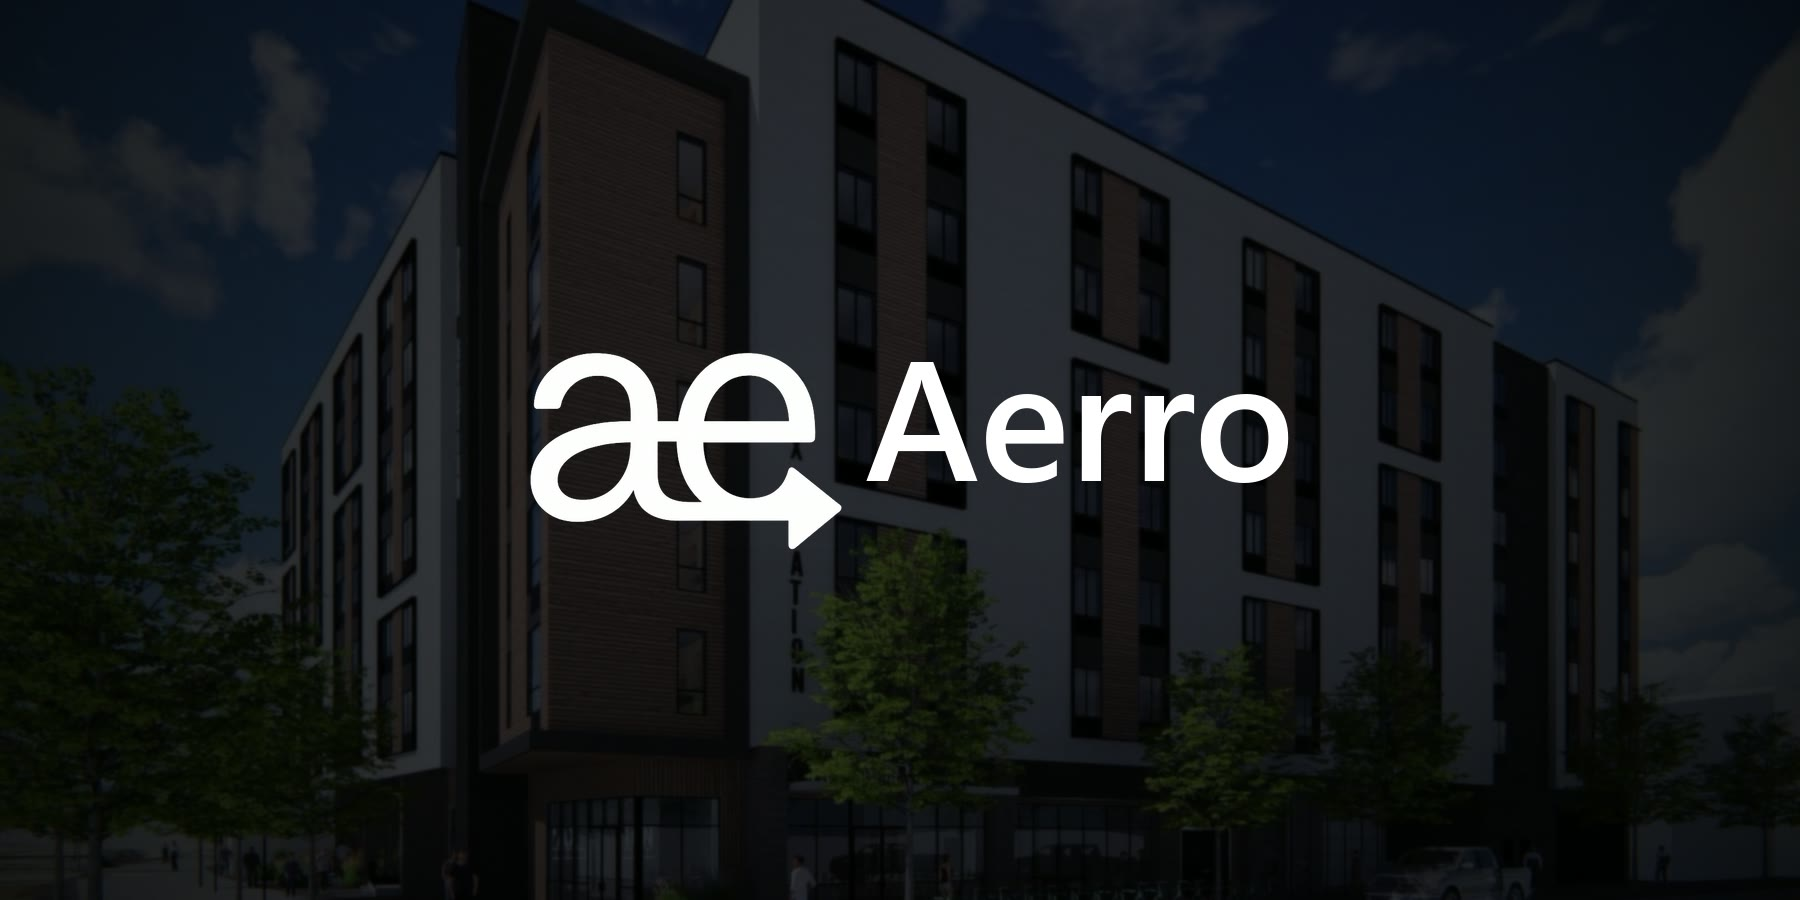
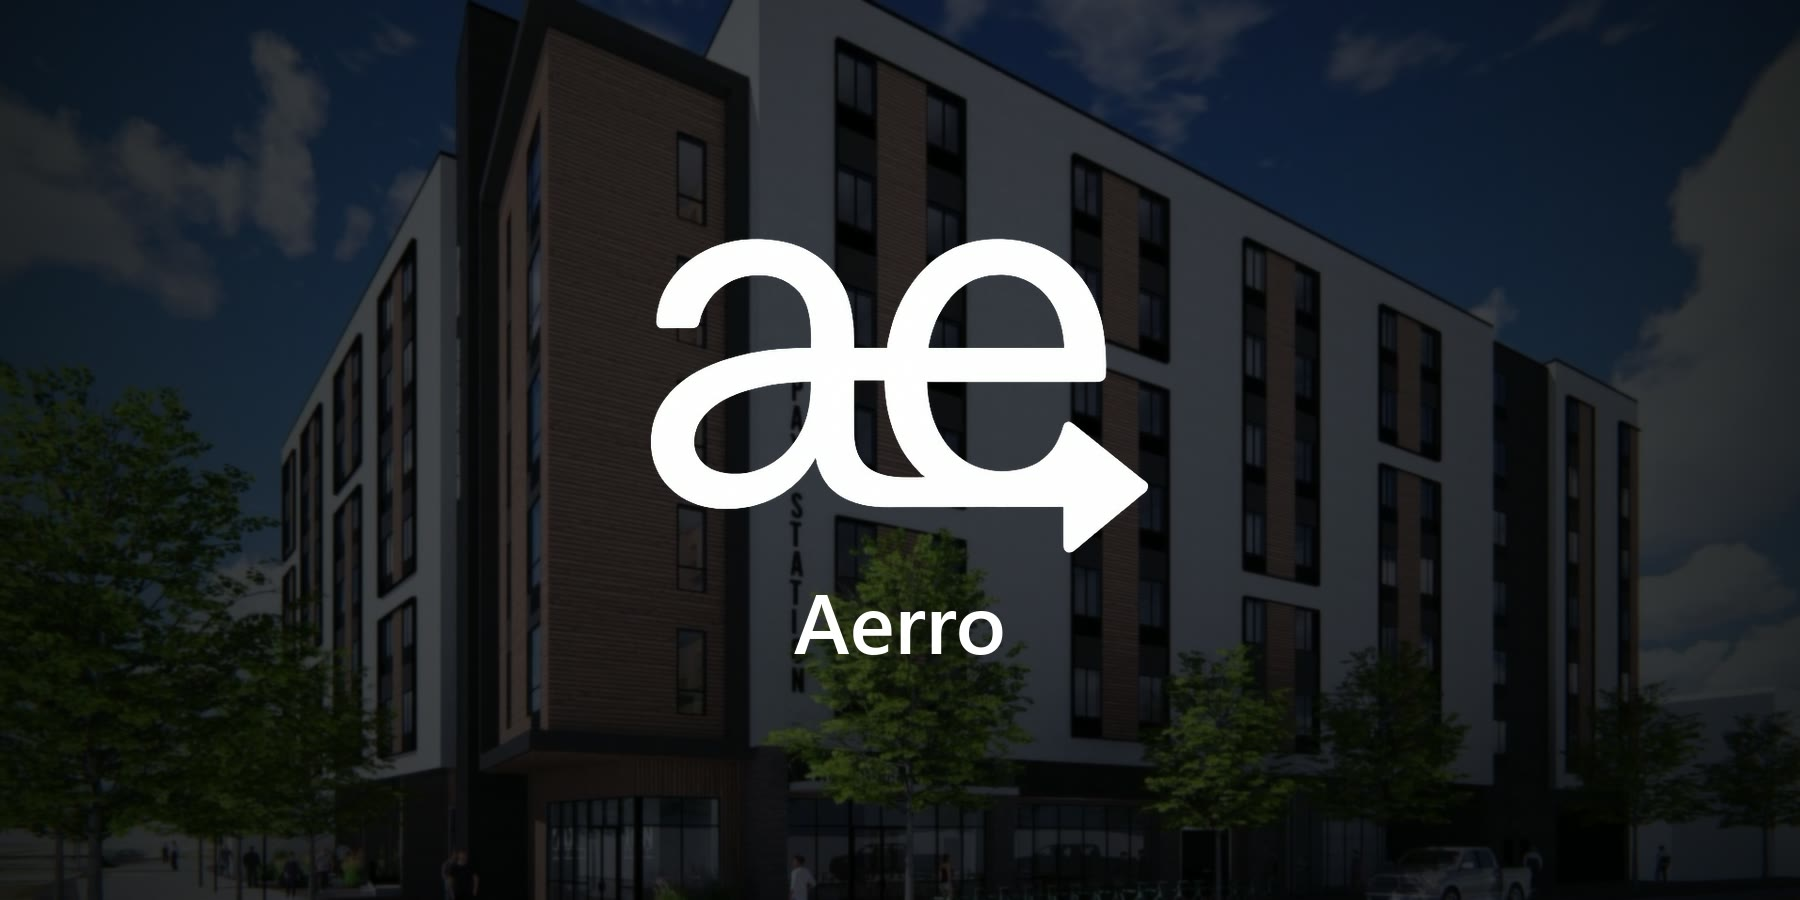
Tech story image: larger centered Aerro mark, wordmark below
The mark is centered and larger with a smaller "Aerro" underneath, and
the background rendering is a little brighter.

Changed region(s): [[0.28, 0.2489, 0.7156, 0.6222], [0.4356, 0.6533, 0.56, 0.7467]]

diff --git a/field-journal.html b/field-journal.html
@@ -46,7 +46,7 @@
 <section class="s fa-list-s" data-tone="light"><div class="wrap">
   <div class="fa-head"><h2 class="big">All stories</h2><div class="fj-chips" role="group" aria-label="Filter stories"><button type="button" data-f="" aria-pressed="true">All</button><button type="button" data-f="Housing" aria-pressed="false">Housing</button><button type="button" data-f="Technology" aria-pressed="false">Technology</button><button type="button" data-f="Projects" aria-pressed="false">Projects</button><button type="button" data-f="Preservation" aria-pressed="false">Preservation</button><button type="button" data-f="Community" aria-pressed="false">Community</button></div></div>
   <ul class="fa-list" data-list><li data-cat="Housing"><a class="fr" href="field-journal/building-from-the-middle-out-the-understory-collection.html"><span class="fr-im"><img src="assets/img/understory-street-2.jpg" alt="" loading="lazy"></span>
-  <span class="fr-tx"><span class="jm"><b>Housing</b><span>Nov 4, 2026</span><span>3 min read</span></span><span class="fr-t">Building From the Middle Out: The Understory Collection and the Missing Middle</span><span class="fr-x">What if the housing crisis isn&#x27;t only about building more, but about building differently? Over the past year our team has been reading Missing…</span></span><span class="fr-a" aria-hidden="true">→</span></a></li><li data-cat="Technology"><a class="fr" href="field-journal/the-tech-that-keeps-us-running.html"><span class="fr-im"><img src="assets/img/tech-aerro-pax-station.jpg" alt="" loading="lazy"></span>
+  <span class="fr-tx"><span class="jm"><b>Housing</b><span>Nov 4, 2026</span><span>3 min read</span></span><span class="fr-t">Building From the Middle Out: The Understory Collection and the Missing Middle</span><span class="fr-x">What if the housing crisis isn&#x27;t only about building more, but about building differently? Over the past year our team has been reading Missing…</span></span><span class="fr-a" aria-hidden="true">→</span></a></li><li data-cat="Technology"><a class="fr" href="field-journal/the-tech-that-keeps-us-running.html"><span class="fr-im"><img src="assets/img/tech-aerro-pax-station.jpg?v=2" alt="" loading="lazy"></span>
   <span class="fr-tx"><span class="jm"><b>Technology</b><span>Nov 4, 2026</span><span>4 min read</span></span><span class="fr-t">The Tech That Keeps Us Running: Aerro, Revit, Scanning and More</span><span class="fr-x">There&#x27;s a moment in every project when the clock feels like it&#x27;s working against you. A deadline shifts, a detail needs another look, or a client…</span></span><span class="fr-a" aria-hidden="true">→</span></a></li><li data-cat="Community"><a class="fr" href="field-journal/knighton-before-christmas-a-gingerbread-building-charity-event-supporting-homeaid-utah.html"><span class="fr-im"><img src="assets/img/17660150_Knighton_Before_Christmas-1.jpg" alt="" loading="lazy"></span>
   <span class="fr-tx"><span class="jm"><b>Community</b><span>Dec 17, 2025</span><span>2 min read</span></span><span class="fr-t">Knighton Before Christmas: A Gingerbread-Building Charity Event Supporting HomeAid Utah</span><span class="fr-x">Knighton Architecture, alongside our partners and community, proudly hosted The Knighton Before Christmas, a festive gingerbread-building charity…</span></span><span class="fr-a" aria-hidden="true">→</span></a></li><li data-cat="Projects"><a class="fr" href="field-journal/7gmi0lwdh7fl4fcm2fqzj8sizo6jmn.html"><span class="fr-im"><img src="assets/img/f8b0e9a7_Valley_View_Parade_Home-0367.jpg" alt="" loading="lazy"></span>
   <span class="fr-tx"><span class="jm"><b>Projects</b><span>Aug 21, 2025</span><span>2 min read</span></span><span class="fr-t">Valley View: A Modern Showcase in the Utah Valley Parade of Homes</span><span class="fr-x">Knighton Architecture, in collaboration with 10X Construction, is proud to present Valley View, a residence featured in the Utah Valley Parade of…</span></span><span class="fr-a" aria-hidden="true">→</span></a></li><li data-cat="Preservation"><a class="fr" href="field-journal/restoring-the-fifth-ward-chapel-preserving-a-salt-lake-city-landmark.html"><span class="fr-im"><img src="assets/img/17557960__url_http_3a_2f_2fewscripps-brightspot.s3.amazonaws.com_2f88_2f67_2f6c36e94040128a9391e8881d62cf_2f5th-ward-building.jpg" alt="" loading="lazy"></span>

diff --git a/field-journal/the-tech-that-keeps-us-running.html b/field-journal/the-tech-that-keeps-us-running.html
@@ -39,7 +39,7 @@
   <a class="jp-back" href="../field-journal.html">← Field Journal</a>
   <span class="jm"><b>Technology</b><span>Nov 4, 2026</span><span>4 min read</span></span><h1 class="jp-t">The Tech That Keeps Us Running: Aerro, Revit, Scanning and More</h1><p class="jp-lede">There&#x27;s a moment in every project when the clock feels like it&#x27;s working against you. A deadline shifts, a detail needs another look, or a client asks about site photos from three months ago. For a small firm like ours, those moments used to eat whole afternoons. Not anymore. Here&#x27;s a closer look at the tools we rely on every day, and why they matter to the people we design for.</p>
 </div></section>
-<figure class="wrap jp-hero" data-dark><img src="../assets/img/tech-aerro-pax-station.jpg" alt="The Aerro logo over a darkened rendering of Pax Station Apartments"></figure>
+<figure class="wrap jp-hero" data-dark><img src="../assets/img/tech-aerro-pax-station.jpg?v=2" alt="The Aerro logo over a darkened rendering of Pax Station Apartments"></figure>
 <section class="jp-body-s" data-tone="light"><div class="wrap jp-grid">
   <aside class="jp-side"><dl><dt>Category</dt><dd>Technology</dd><dt>Published</dt><dd>Nov 4, 2026</dd><dt>Reading time</dt><dd>4 minutes</dd></dl><a class="arrow" href="https://www.aerro.app/" target="_blank" rel="noopener">Visit Aerro</a></aside>
   <div class="jp-body"><p>Technology in architecture isn't new. CAD changed the profession decades ago. But the pace of change right now, in modeling, scanning, project management and artificial intelligence, is unlike anything we've seen. For a firm our size, staying current isn't optional. It's how we deliver the precision of a much larger firm without the overhead.</p>

diff --git a/field-journal/building-from-the-middle-out-the-understory-collection.html b/field-journal/building-from-the-middle-out-the-understory-collection.html
@@ -62,7 +62,7 @@
 <p>Housing has long been part of our work, from the micro-units at <a href="../work/paxstation.html">Pax Station Apartments</a> beside the Ballpark TRAX Station to the townhome prototypes we designed with <a href="../work/woodside-homes-townhomes.html">Woodside Homes</a>. The Understory Collection takes what we've learned and makes it repeatable, so more communities can add the kinds of homes they're missing.</p>
 <p>You can explore every plan at <a href="https://theunderstorycollection.com/" target="_blank" rel="noopener">theunderstorycollection.com</a>. If you own a lot, build homes, or work with a city that's exploring middle housing, <a href="../contact-1.html">we'd love to talk</a>.</p></div>
 </div></section>
-<section class="s jp-next" data-tone="dark" id="turn" data-turn><div class="wrap"><a class="jn" href="the-tech-that-keeps-us-running.html" data-dark><img src="../assets/img/tech-aerro-pax-station.jpg" alt=""><span class="jn-in"><span class="kicker">Next story</span><span class="jn-t">The Tech That Keeps Us Running: Aerro, Revit, Scanning and More</span><span class="arrow">Read it</span></span></a></div></section>
+<section class="s jp-next" data-tone="dark" id="turn" data-turn><div class="wrap"><a class="jn" href="the-tech-that-keeps-us-running.html" data-dark><img src="../assets/img/tech-aerro-pax-station.jpg?v=2" alt=""><span class="jn-in"><span class="kicker">Next story</span><span class="jn-t">The Tech That Keeps Us Running: Aerro, Revit, Scanning and More</span><span class="arrow">Read it</span></span></a></div></section>
 </article>
 </main>
 
